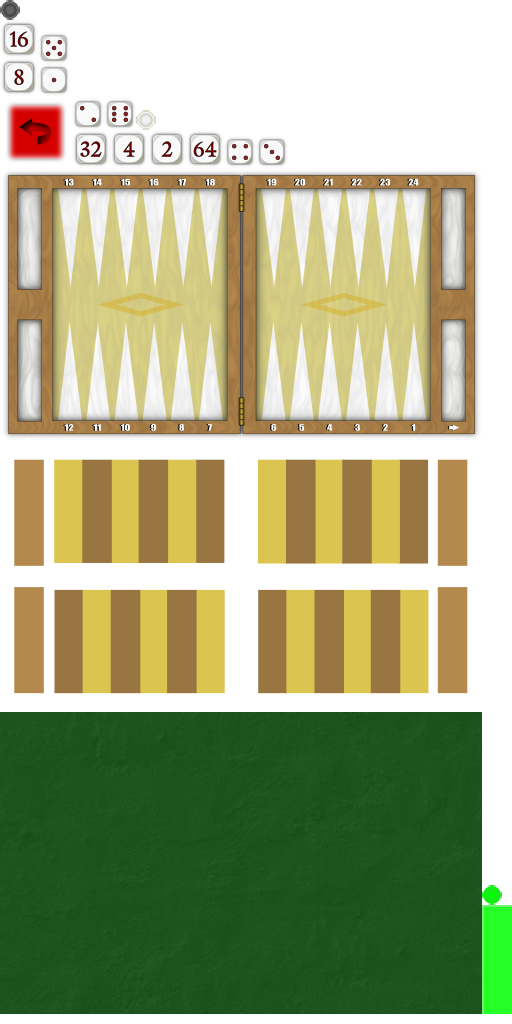
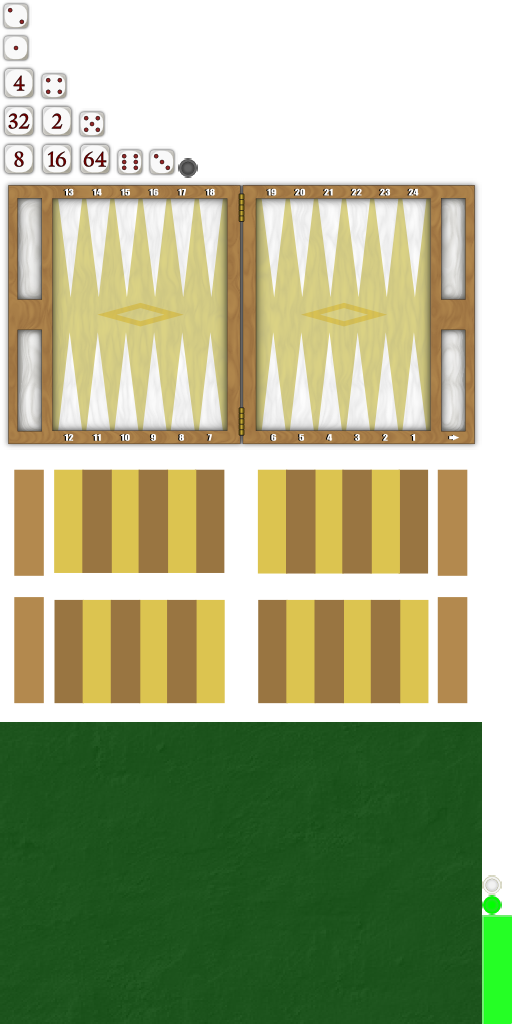
CLEANUP

diff --git a/GnuBackgammon/src/it/alcacoop/gnubackgammon/actors/Checker.java b/GnuBackgammon/src/it/alcacoop/gnubackgammon/actors/Checker.java
@@ -13,6 +13,7 @@ import com.badlogic.gdx.scenes.scene2d.actions.ParallelAction;
 import com.badlogic.gdx.scenes.scene2d.ui.Image;
 import com.badlogic.gdx.scenes.scene2d.ui.Label;
 import com.badlogic.gdx.scenes.scene2d.ui.Label.LabelStyle;
+import com.badlogic.gdx.scenes.scene2d.utils.TextureRegionDrawable;
 import com.badlogic.gdx.utils.Scaling;
 
 
@@ -23,6 +24,8 @@ public class Checker extends Group {
   private Image img, imgh;
   private ParallelAction act;
   private BaseFSM fsm;
+  private final TextureRegionDrawable dr;
+  
   
   public int color = 0;
   public int boardX = -1; 
@@ -39,20 +42,23 @@ public class Checker extends Group {
     TextureRegion region;
     
     if (color==1) {//WHITE
-      region = GnuBackgammon.atlas.findRegion("cw");
+      region = new TextureRegion(GnuBackgammon.atlas.findRegion("cw"));
       LabelStyle styleBlack = new LabelStyle(GnuBackgammon.font, Color.BLACK);
       label = new Label("1", styleBlack);
       label.setColor(0,0,0,1);
     } else { 
-      region = GnuBackgammon.atlas.findRegion("cb");
+      region = new TextureRegion(GnuBackgammon.atlas.findRegion("cb"));
       LabelStyle styleWhite = new LabelStyle(GnuBackgammon.font, Color.WHITE);
       label = new Label("1", styleWhite);
       label.setColor(1,1,1,1);
     }
 
-    img = new Image(region);
+    dr = new TextureRegionDrawable(region);
+    img = new Image(dr);
+    
     label.setAlignment(com.badlogic.gdx.scenes.scene2d.utils.Align.center);
-    region = GnuBackgammon.atlas.findRegion("ch");
+    
+    region = new TextureRegion(GnuBackgammon.atlas.findRegion("ch"));
     imgh = new Image(region);
     imgh.setScaling(Scaling.none);
     imgh.addAction(Actions.forever(Actions.sequence(Actions.fadeIn(0.4f), Actions.fadeOut(0.2f))));
@@ -117,7 +123,7 @@ public class Checker extends Group {
     else //BEARED OFF
       y = board.bearedOff[color];
     
-    Vector2 _p = board.getBoardCoord(color, x, y);
+    final Vector2 _p = board.getBoardCoord(color, x, y);
     final int d = boardX-x;
     setPosition(x);
     
@@ -190,9 +196,23 @@ public class Checker extends Group {
     return img.getWidth();
   }
   
+  public float getHeight() {
+    return img.getHeight();
+  }
+  
   public void resetActions() {
     if (act!=null) //act.setActor(null);
       act.reset();
   }
-  
+
+  @Override
+  public void setY(float y) {
+    if ((y<board.getHeight()/2)&&(!dr.getRegion().isFlipY())) {
+      dr.getRegion().flip(false, true);
+    } 
+    if ((y>board.getHeight()/2)&&(dr.getRegion().isFlipY())) {
+      dr.getRegion().flip(false, true);
+    }
+    super.setY(y);
+  }
 }

diff --git a/GnuBackgammon/src/it/alcacoop/gnubackgammon/actors/DoublingCube.java b/GnuBackgammon/src/it/alcacoop/gnubackgammon/actors/DoublingCube.java
@@ -2,7 +2,6 @@ package it.alcacoop.gnubackgammon.actors;
 
 import it.alcacoop.gnubackgammon.GnuBackgammon;
 import it.alcacoop.gnubackgammon.logic.MatchState;
-
 import com.badlogic.gdx.graphics.g2d.TextureRegion;
 import com.badlogic.gdx.scenes.scene2d.Group;
 import com.badlogic.gdx.scenes.scene2d.ui.Image;
@@ -25,16 +24,10 @@ public class DoublingCube extends Group {
     x = b.getWidth()-GnuBackgammon.Instance.jp.asFloat("pos_bo", 0) -
         i.getWidth()/2 -
         GnuBackgammon.Instance.jp.asFloat("pos", 0)/3.7f;
-    center = b.getHeight()/2 -
-        i.getHeight()/2 -
-        GnuBackgammon.Instance.jp.asFloat("pos", 0)/5.5f;
     
-    down = GnuBackgammon.Instance.jp.asFloat("down", 0) -
-        i.getHeight()/2 +
-        GnuBackgammon.Instance.jp.asFloat("pos", 0);
-    up = GnuBackgammon.Instance.jp.asFloat("up", 0) -
-        i.getHeight()/2 -
-        GnuBackgammon.Instance.jp.asFloat("pos", 0);
+    center = (b.getHeight()-i.getHeight())/2 - GnuBackgammon.Instance.jp.asFloat("pos", 0)/5.9f;
+    down = GnuBackgammon.Instance.jp.asFloat("pos", 0)*2;
+    up = b.getHeight() - i.getHeight() - GnuBackgammon.Instance.jp.asFloat("pos", 0)*2;
     
     setX(x);
     setY(center);

diff --git a/GnuBackgammon/src/it/alcacoop/gnubackgammon/actors/Board.java b/GnuBackgammon/src/it/alcacoop/gnubackgammon/actors/Board.java
@@ -154,7 +154,7 @@ public class Board extends Group {
 
   public Vector2 getBoardCoord(int color, int x, int y){
     if ((y>4)&&(x!=-1)) y=4;
-    float cdim = checkers[0][0].getWidth();
+    float cdim = checkers[0][0].getHeight();
     Vector2 ret = new Vector2();
 
     switch (x) {
@@ -286,10 +286,9 @@ public class Board extends Group {
   public void performNextMove(boolean nodelay) {
     try {
       Move m = moves.pop();
-      playedMoves.push(m);
-      m.setRemovedMoves(availableMoves.removeMoves(m.from, m.to));
-      
       if (m!=null) {
+        playedMoves.push(m);
+        m.setRemovedMoves(availableMoves.removeMoves(m.from, m.to));
         Checker c = getChecker(MatchState.fMove, m.from);
         if (nodelay) c.moveTo(m.to);
         else c.moveToDelayed(m.to, 0.2f);

diff --git a/GnuBackgammon/src/it/alcacoop/gnubackgammon/GnuBackgammon.java b/GnuBackgammon/src/it/alcacoop/gnubackgammon/GnuBackgammon.java
@@ -52,6 +52,7 @@ public class GnuBackgammon extends Game implements ApplicationListener {
   public Screen currentScreen;
   public JSONProperties jp;
   
+  
   @Override
   public void create() {
     Instance = this;
@@ -136,6 +137,5 @@ public class GnuBackgammon extends Game implements ApplicationListener {
     
     fsm.start();
   }
-  
   
 }

diff --git a/GnuBackgammon/src/it/alcacoop/gnubackgammon/layers/GameScreen.java b/GnuBackgammon/src/it/alcacoop/gnubackgammon/layers/GameScreen.java
@@ -85,6 +85,7 @@ public class GameScreen implements Screen {
     table.add(abandon).fill().pad(2);
     
     table.row();
+    //TODO: PROPORTIONAL FILL COULD BE BETTER
     table.add(board).colspan(5).expand().fill();
   }
 

diff --git a/GnuBackgammon/src/it/alcacoop/gnubackgammon/fsm/GameFSM.java b/GnuBackgammon/src/it/alcacoop/gnubackgammon/fsm/GameFSM.java
@@ -261,7 +261,6 @@ public class GameFSM extends BaseFSM implements Context {
   }
 
   public void start() {
-    //state(States.OPENING_ROLL);
     GnuBackgammon.Instance.goToScreen(4);
   }
 
